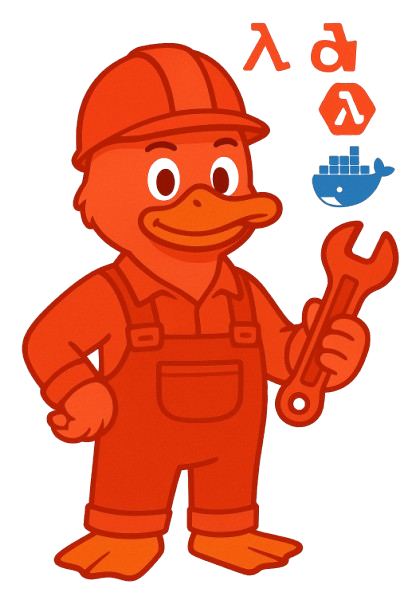
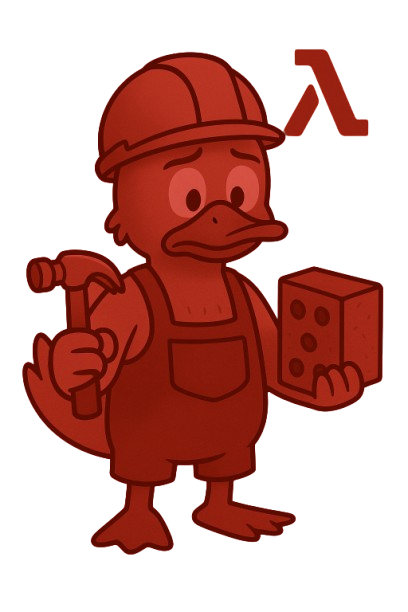
skills feita

diff --git a/src/components/Skills.tsx b/src/components/Skills.tsx
@@ -1,4 +1,4 @@
-import { FaNodeJs, FaServer } from 'react-icons/fa';
+import { FaBuilding, FaNodeJs, FaServer } from 'react-icons/fa';
 import { GrDeploy } from 'react-icons/gr';
 import { PiMonitorPlayFill, PiNetworkFill } from 'react-icons/pi';
 import {
@@ -8,9 +8,9 @@ import {
   SiReact,
   SiSpring,
 } from 'react-icons/si';
-import patoback from '../assets/ChatGPT Image 14 de jul. de 2025, 16_57_18.png'
-import patofront from '../assets/patofront.png'
-import patoinfra from '../assets/patoinfra.png'
+import patoback from '../assets/patoback.png';
+import patofront from '../assets/patofront.png';
+import patoinfra from '../assets/patoinfra.png';
 
 function Skills() {
   return (
@@ -38,7 +38,7 @@ function Skills() {
                 Python | Django | Flask
               </li>
             </ul>
-            <img src={patoback} alt="" className='h-72' />
+            <img src={patoback} alt="" className="h-72" />
           </div>
         </div>
 
@@ -47,7 +47,7 @@ function Skills() {
             <PiMonitorPlayFill />
             Frontend
           </p>
-          <div className=" border-2 border-sky-300 bg-sky-800/40 px-4 py-2 flex gap-2 items-center justify-around">
+          <div className="border-2 border-sky-300 bg-sky-800/40 px-4 py-2 flex gap-2 items-center justify-around">
             <ul className="flex flex-col gap-2 text-2xl items-center font-semibold text-sky-500">
               <li className=" flex items-center gap-2">
                 <SiHtml5 /> HTML | CSS | JavaScript
@@ -59,13 +59,13 @@ function Skills() {
                 <SiReact /> Tailwind | Bootstrap | MaterialUI
               </li>
             </ul>
-            <img src={patofront} alt="" className='h-72' />
+            <img src={patofront} alt="" className="h-72" />
           </div>
         </div>
 
         <div className="w-4/9 ml-16 -mt-16">
-          <p className="uppercase text-xl font-bold p-2 rounded-t-xl bg-red-300 text-red-950 flex justify-center items-center gap-4">
-            <PiMonitorPlayFill />
+          <p className="uppercase text-3xl font-bold p-2 rounded-t-xl bg-red-300 text-red-950 flex justify-center items-center gap-4">
+            <FaBuilding />
             InfraEstrutura
           </p>
           <div className=" border-2 border-red-300 bg-red-900/40 px-4 py-2 flex gap-2 items-center justify-around">
@@ -80,7 +80,7 @@ function Skills() {
                 <GrDeploy /> CI/CD
               </li>
             </ul>
-            <img src={patoinfra} alt="" className='h-72' />
+            <img src={patoinfra} alt="" className="h-72" />
           </div>
         </div>
       </div>
